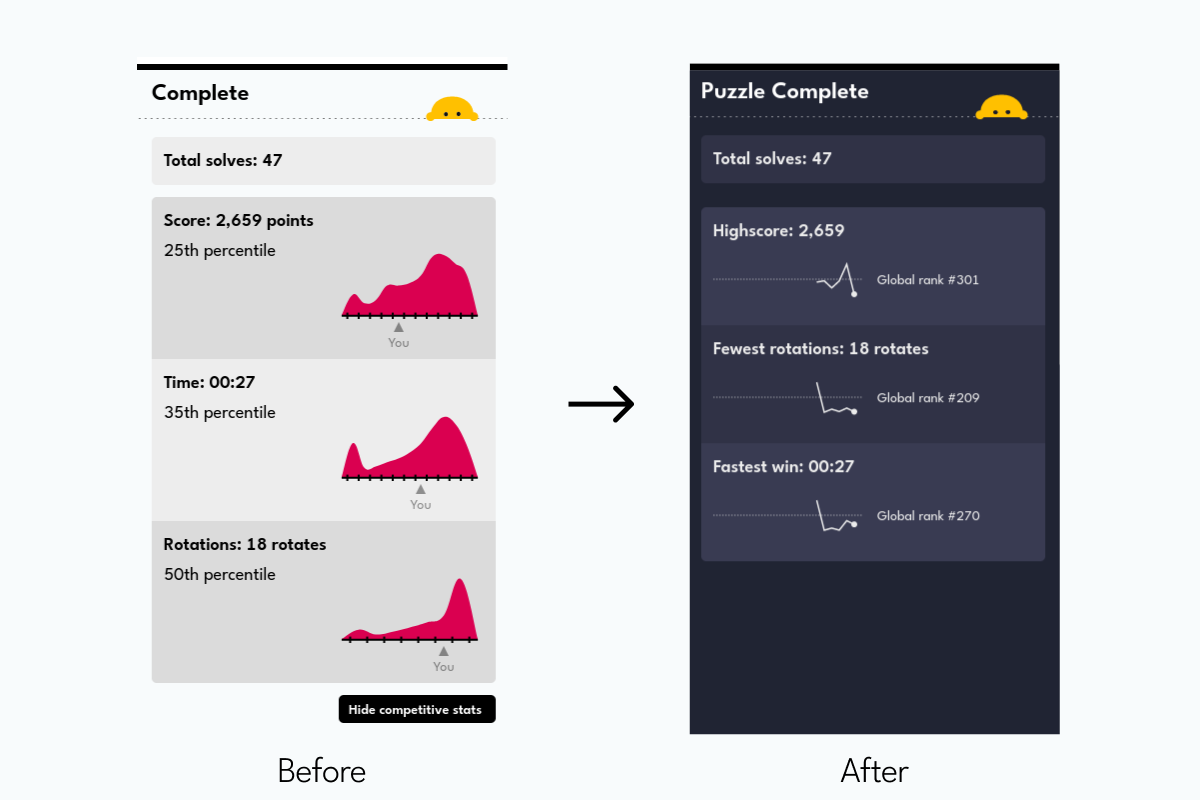
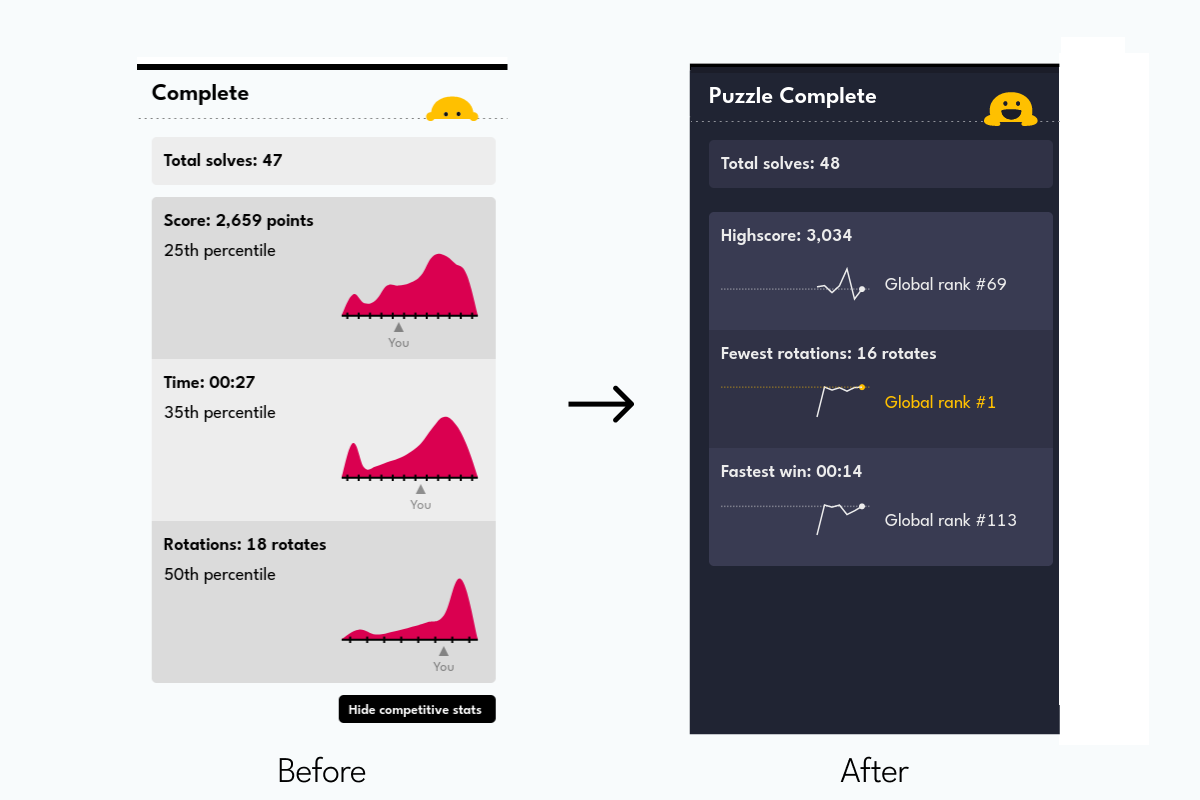
Revise post

diff --git a/content/posts/2024/04/18/completion-sidebar-2/index.md b/content/posts/2024/04/18/completion-sidebar-2/index.md
@@ -23,7 +23,11 @@ What are the key changes:
 
 Since launch we've been re-examining ways in which we encourage competition on Puzzmo, and have a better sense of what we're doing which can make folks feel bad about a puzzle which they thought they did well in. 
 
-Some games just seem to have folks competing at a different level, which is cool, but kinda de-motivating to see straight after you completed something tricky. Now, you're mostly competing with past you, and we have kept a way to let you know about interesting highlights. You would be astute to note that the screenshots above somewhat contradict this, because they still include _"Global rank xth"_ - this is now a choice! If you set your leaderboards to be friends only, the messages will respect that choice!
+Some games just seem to have folks competing at a different level, which is cool, but kinda de-motivating to see straight after you completed something tricky. Now, you're mostly competing with past you, and we have a more refined way to let you know about interesting highlights. 
+
+- If you have broken a personal record for a statistic, we let you know
+- If you have global leaderboards set, we show your rank if your position is under 250 
+- If you have friend leaderboards set, we show your positions compared to your friends
 
 We're trying to run Puzzmo on a reasonable budget, and so we aren't storing all of the history for folks who are not logged in! They will see a small prompt to sign up. 
 
